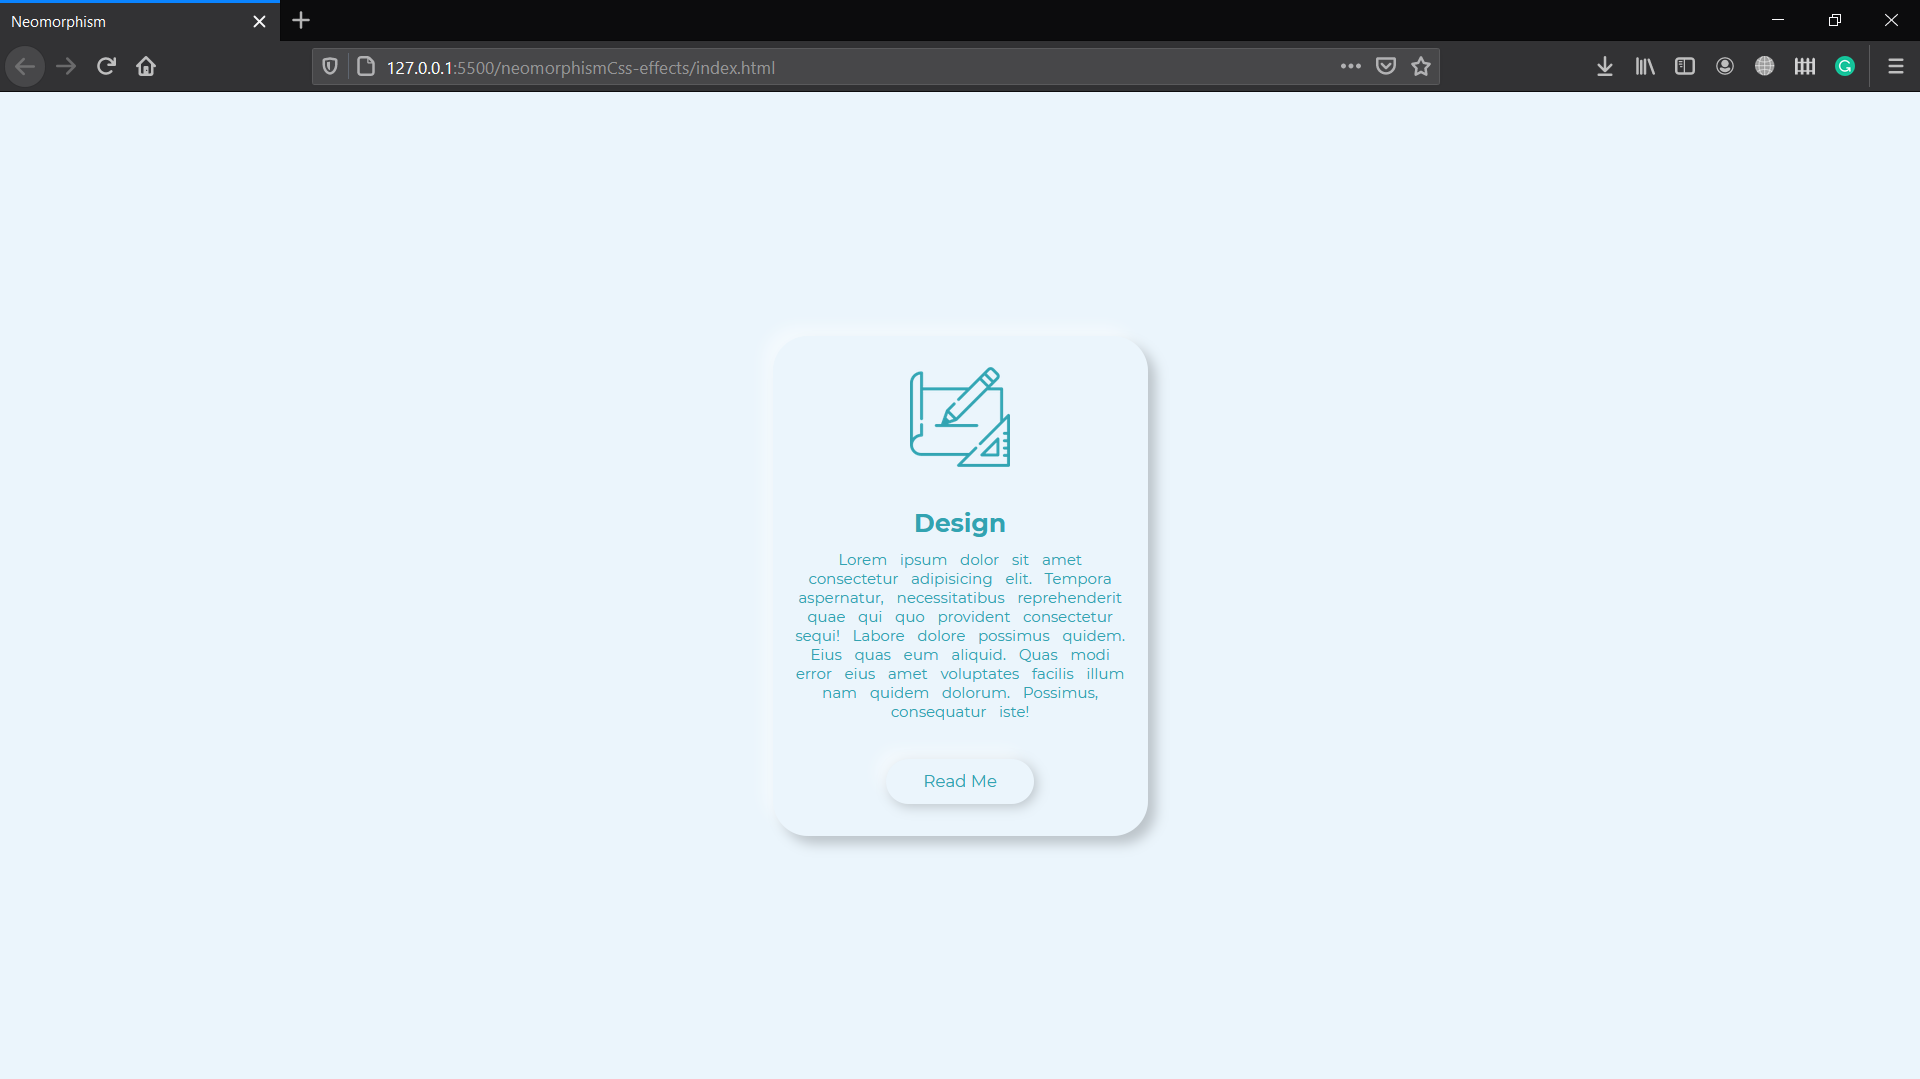
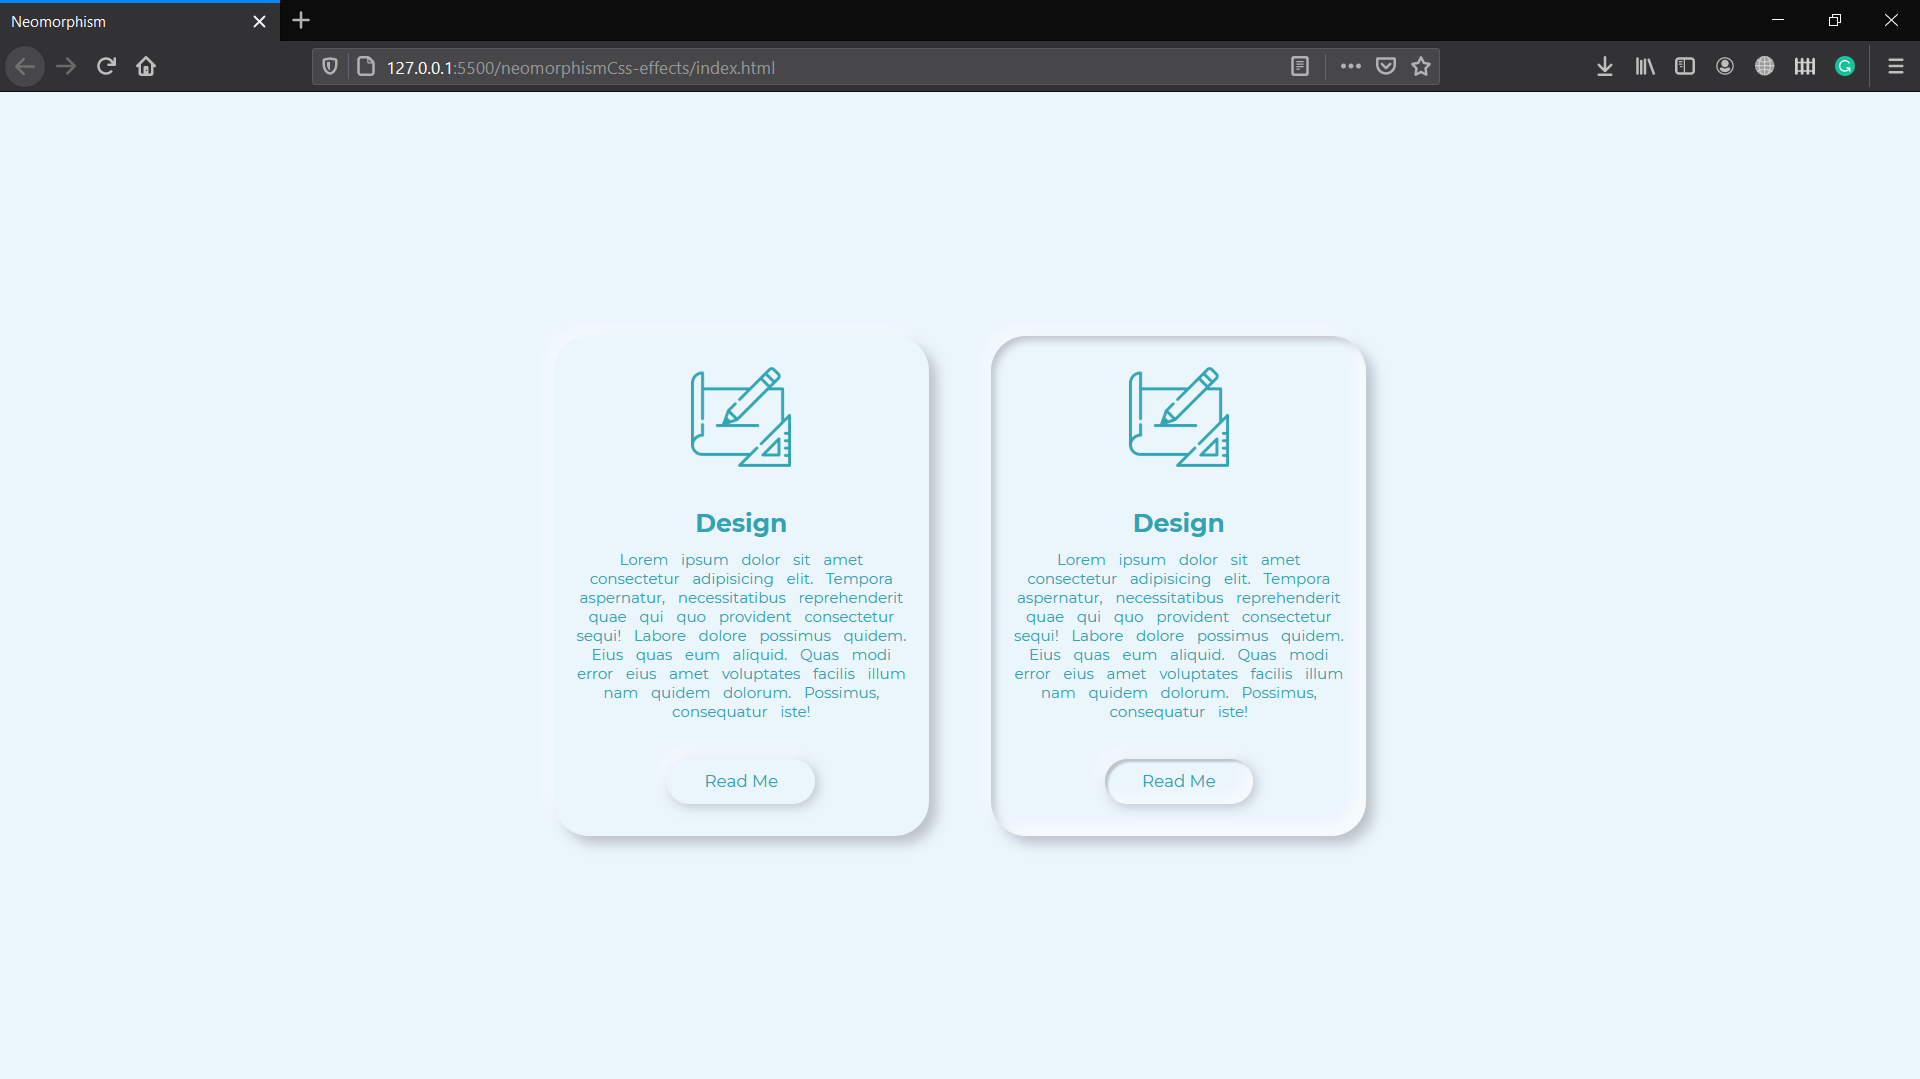
🔥🔥

diff --git a/neomorphismCss-effects/styles.css b/neomorphismCss-effects/styles.css
@@ -8,8 +8,10 @@ html {
 }
 .container {
   height: 100vh;
-  display: grid;
-  place-items: center;
+  display: flex;
+  justify-content: center;
+  align-items: center;
+  gap: 5rem;
   background-color: #ebf5fc;
 }
 .container__card {
@@ -58,6 +60,7 @@ html {
   border: none;
   color: #32a3b1;
   padding: 1rem 3rem;
+  outline-width: 0rem;
   border-radius: 2.8rem;
   box-shadow: -0.8rem -0.8rem 1rem rgba(255, 255, 255, 0.4),
     0.2rem 0.2rem 1rem rgba(0, 0, 0, 0.2);
@@ -69,4 +72,30 @@ html {
 .container__card:hover .btn {
   transform-origin: top;
   transform: scale(0.98);
+}
+.container__cardNoneHover {
+  width: 30rem;
+  height: 40rem;
+  display: flex;
+  flex-direction: column;
+  justify-content: center;
+  align-items: center;
+  gap: 3rem;
+  border-radius: 2.8rem;
+  box-shadow: -0.8rem -0.8rem 1rem rgba(255, 255, 255, 0.4),
+    0.6rem 0.6rem 1rem rgba(0, 0, 0, 0.2),
+    inset -0.8rem -0.8rem 1rem rgba(255, 255, 255, 0.6),
+    inset 0.3rem 0.3rem 0.7rem rgba(0, 0, 0, 0.2);
+}
+.btnNoneHover {
+  background-color: transparent;
+  border: none;
+  color: #32a3b1;
+  padding: 1rem 3rem;
+  outline-width: 0rem;
+  border-radius: 2.8rem;
+  box-shadow: -0.8rem -0.8rem 1rem rgba(255, 255, 255, 0.4),
+    0.2rem 0.2rem 1rem rgba(0, 0, 0, 0.2),
+    inset -0.8rem -0.8rem 0.8rem rgba(255, 255, 255, 0.4),
+    inset 0.2rem 0.2rem 0.1rem rgba(0, 0, 0, 0.2);
 }

diff --git a/neomorphismCss-effects/index.html b/neomorphismCss-effects/index.html
@@ -25,6 +25,22 @@
         </div>
         <button class="btn">Read Me</button>
       </div>
+      <div class="container__cardNoneHover">
+        <div class="card__img">
+          <img src="./images/design.png" alt="" />
+        </div>
+        <div class="card__info">
+          <h3>Design</h3>
+          <p>
+            Lorem ipsum dolor sit amet consectetur adipisicing elit. Tempora
+            aspernatur, necessitatibus reprehenderit quae qui quo provident
+            consectetur sequi! Labore dolore possimus quidem. Eius quas eum
+            aliquid. Quas modi error eius amet voluptates facilis illum nam
+            quidem dolorum. Possimus, consequatur iste!
+          </p>
+        </div>
+        <button class="btnNoneHover">Read Me</button>
+      </div>
     </div>
   </body>
 </html>

diff --git a/neomorphismCss-effects/README.md b/neomorphismCss-effects/README.md
@@ -10,8 +10,4 @@ Note : You cannot apply transition from normal box-shadow to inset or visa-versa
 
 ### Hover On Card
 
-<img src="./images/HoverOnCard.png" width="700"/>
-
-### Hover On Card Plus Read Me
-
-<img src="./images/HoverOnCardplusReadMe.png" width="700"/>
+<img src="./images/OnHover.png" width="700"/>
